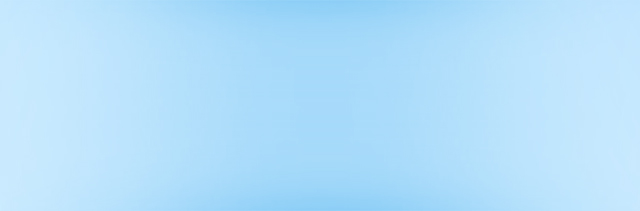
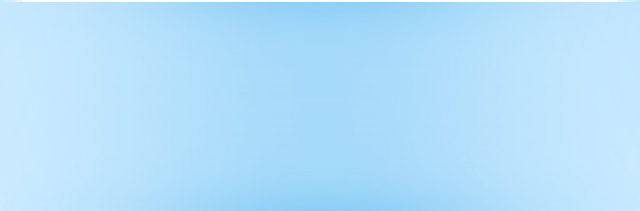
correct arrow area color

Changed region(s): [[0.0312, 0.0, 1.0, 0.0284]]

diff --git a/WordTotalFrequency/Controllers/DashboardController.m b/WordTotalFrequency/Controllers/DashboardController.m
@@ -61,30 +61,35 @@
     set.description = @"Master this word set you can read some short .";
     set.iconUrl = @"Unit-1";
     set.categoryId = 0;
+    set.arrowColor = [UIColor colorWithHex:0xbee3fd];
     [_wordSets addObject:set];
     
     set = [[[WordSet alloc] initWithTotal:9233 marked:235 color:[UIColor colorWithHex:0xff6600]] autorelease];
     set.description = @"Master this word set you can understand basic conversations.";
     set.iconUrl = @"Unit-2";
     set.categoryId = 1;
+    set.arrowColor = [UIColor colorWithHex:0xa1d7f9];
     [_wordSets addObject:set];
     
     set = [[[WordSet alloc] initWithTotal:12457 marked:2348 color:[UIColor colorWithHex:0xff9800]] autorelease];
     set.description = @"Master this word set you can adfasf asdfasdf werwer asfasdf.";
     set.iconUrl = @"Unit-3";
     set.categoryId = 2;
+    set.arrowColor = [UIColor colorWithHex:0x8ecff7];
     [_wordSets addObject:set];
     
     set = [[[WordSet alloc] initWithTotal:23219 marked:1030 color:[UIColor colorWithHex:0xffb900]] autorelease];
     set.description = @"Master this word set you can read some short article.";
     set.iconUrl = @"Unit-4";
     set.categoryId = 3;
+    set.arrowColor = [UIColor colorWithHex:0xa1d7f9];
     [_wordSets addObject:set];
     
     set = [[[WordSet alloc] initWithTotal:49346 marked:0 color:[UIColor colorWithHex:0xffda00]] autorelease];
     set.description = @"Master this word set you can read some short articles and have.";
     set.iconUrl = @"Unit-5";
     set.categoryId = 4;
+    set.arrowColor = [UIColor colorWithHex:0xbee3fd];
     [_wordSets addObject:set];
     
     // retrieve data
@@ -152,6 +157,8 @@
                         _wordSetBrief.frame = CGRectMake(0, 0, 320, WORDSETBRIEF_HEIGHT);
                     }
                     completion:^(BOOL finished) {
+                        if (finished)
+                            _briefView.hidden = YES;
                     }];
 }
 
@@ -164,6 +171,7 @@
                     }
                     completion:^(BOOL finished) {
                     }];
+    _briefView.hidden = NO;
 }
 
 - (NSInteger)selectedIconIndex
@@ -355,6 +363,7 @@
     [_searchBar resignFirstResponder];
     [self dismissSearchResult:YES];
     [self dismissWordSetBrief];
+    self.selectedIconIndex = -1;
 }
 
 #pragma mark - UISearchBarDelegate

diff --git a/WordTotalFrequency/Classes/CAArrowShapeLayer.m b/WordTotalFrequency/Classes/CAArrowShapeLayer.m
@@ -13,6 +13,7 @@
 @implementation CAArrowShapeLayer
 
 @synthesize strokeColor = _strokeColor;
+@synthesize arrowAreaColor = _arrowAreaColor;
 
 - (id)init
 {
@@ -33,21 +34,35 @@
     }
 }
 
+- (void)setArrowAreaColor:(UIColor *)arrowAreaColor
+{
+    if (arrowAreaColor != _arrowAreaColor)
+    {
+        [_arrowAreaColor release];
+        _arrowAreaColor = [arrowAreaColor retain];
+        [self setNeedsDisplay];
+    }
+}
+
 - (void)drawInContext:(CGContextRef)ctx
 {
     CGGradientRef glossGradient;
     CGColorSpaceRef rgbColorspace;
     size_t num_locations = 2;
-    CGFloat locations[2] = { 0.0, 0.18 };
-    CGFloat components[8] = {148.0/255, 185.0/255, 209.0/255, 0.8,  // Start color
-        148.0/255, 185.0/255, 209.0/255, 0}; // End color
+    CGFloat locations[2] = {0.0, 1.0};
+//    NSLog(@"%f, %f, %f", [_arrowAreaColor red], [_arrowAreaColor green], [_arrowAreaColor blue]);
+//    CGFloat components[8] = {148.0/255, 185.0/255, 209.0/255, 0.8,  // Start color
+//        148.0/255, 185.0/255, 209.0/255, 0}; // End color
+    CGFloat components[8] = {[_arrowAreaColor red], [_arrowAreaColor green], [_arrowAreaColor blue], 1,  // Start color
+        [_arrowAreaColor red], [_arrowAreaColor green], [_arrowAreaColor blue], 1}; // End color
+    
 	
     rgbColorspace = CGColorSpaceCreateDeviceRGB();
     glossGradient = CGGradientCreateWithColorComponents(rgbColorspace, components, locations, num_locations);
 	
     CGRect currentBounds = self.bounds;
     CGPoint topCenter = CGPointMake(CGRectGetMidX(currentBounds), 0.0f);
-    CGPoint midCenter = CGPointMake(CGRectGetMidX(currentBounds), CGRectGetMidY(currentBounds));
+    CGPoint midCenter = CGPointMake(CGRectGetMidX(currentBounds), 9.5);
     
 
     CGMutablePathRef path = CGPathCreateMutable();
@@ -79,6 +94,7 @@
 - (void)dealloc
 {
     [_strokeColor release];
+    [_arrowAreaColor release];
     [super dealloc];
 }
 

diff --git a/WordTotalFrequency/Views/WordSetBriefView.m b/WordTotalFrequency/Views/WordSetBriefView.m
@@ -32,7 +32,7 @@
 {
     _backgroundImage.image = [UIImage imageNamed:@"word-set-selected-bg"];
     
-    [self performSelector:@selector(navigateToWordSetController) withObject:nil afterDelay:.15];
+    [self performSelector:@selector(navigateToWordSetController) withObject:nil afterDelay:.05];
 }
 
 - (id)initWithFrame:(CGRect)frame
@@ -50,7 +50,7 @@
         [self.layer addSublayer:_arrowLayer];
         
         _backgroundImage = [[UIImageView alloc] initWithImage:[UIImage imageNamed:@"word-set-bg"]];
-        _backgroundImage.frame = CGRectMake(0, 8.5, frame.size.width, 106);
+        _backgroundImage.frame = CGRectMake(0, 9, frame.size.width, 106);
         [self addSubview:_backgroundImage];
         
         _countlabel = [[UILabel alloc] initWithFrame:CGRectZero];
@@ -143,6 +143,7 @@
 - (void)updateDisplay
 {
     _arrowLayer.strokeColor = _wordSet.color;
+    _arrowLayer.arrowAreaColor = _wordSet.arrowColor;
     _countlabel.text = [NSString stringWithFormat:@"%d", _wordSet.markedWordCount];
     _countlabel.textColor = _wordSet.color;
     [_percentLabel setText:[NSString stringWithFormat:@"%d%%", _wordSet.completePercentage]];

diff --git a/WordTotalFrequency/Extentions/UIColor+WTF.m b/WordTotalFrequency/Extentions/UIColor+WTF.m
@@ -30,4 +30,35 @@
     return [UIColor colorWithHex:0x45738e];
 }
 
+- (CGColorSpaceModel) colorSpaceModel  
+{  
+    return CGColorSpaceGetModel(CGColorGetColorSpace(self.CGColor));  
+}
+
+- (CGFloat) red  
+{  
+    const CGFloat *c = CGColorGetComponents(self.CGColor);  
+    return c[0];  
+}  
+
+- (CGFloat) green  
+{  
+    const CGFloat *c = CGColorGetComponents(self.CGColor);
+    if ([self colorSpaceModel] == kCGColorSpaceModelMonochrome) return c[0];  
+    return c[1];  
+}  
+
+- (CGFloat) blue  
+{  
+    const CGFloat *c = CGColorGetComponents(self.CGColor);  
+    if ([self colorSpaceModel] == kCGColorSpaceModelMonochrome) return c[0];  
+    return c[2];  
+}  
+
+- (CGFloat) alpha  
+{  
+    const CGFloat *c = CGColorGetComponents(self.CGColor);  
+    return c[CGColorGetNumberOfComponents(self.CGColor)-1];  
+}  
+
 @end

diff --git a/WordTotalFrequency/Models/WordSet.m b/WordTotalFrequency/Models/WordSet.m
@@ -15,6 +15,7 @@
 @synthesize markedWordCount = _markedWordCount;
 @synthesize description = _description;
 @synthesize color = _color;
+@synthesize arrowColor = _arrowColor;
 @synthesize completePercentage = _completePercentage;
 @synthesize iconUrl = _iconUrl;
 @synthesize categoryId = _categoryId;
@@ -34,6 +35,7 @@
 {
     [_description release];
     [_color release];
+    [_arrowColor release];
     [super dealloc];
 }
 

diff --git a/WordTotalFrequency/Models/WordSet.h b/WordTotalFrequency/Models/WordSet.h
@@ -17,6 +17,7 @@
 @property (nonatomic) NSInteger markedWordCount;
 @property (nonatomic, copy) NSString *description;
 @property (nonatomic, retain) UIColor *color;
+@property (nonatomic, retain) UIColor *arrowColor;
 @property (nonatomic, readonly) NSInteger completePercentage;
 @property (nonatomic, copy) NSString *iconUrl;
 @property (nonatomic) NSInteger categoryId;

diff --git a/WordTotalFrequency/Extentions/UIColor+WTF.h b/WordTotalFrequency/Extentions/UIColor+WTF.h
@@ -17,4 +17,12 @@
 
 + (UIColor *)colorForNormalText;
 
++ (UIColor *)colorForNormalText;
+- (CGColorSpaceModel) colorSpaceModel;
+
+- (CGFloat) red;
+- (CGFloat) green;
+- (CGFloat) blue;
+- (CGFloat) alpha;
+
 @end

diff --git a/WordTotalFrequency/Classes/CAArrowShapeLayer.h b/WordTotalFrequency/Classes/CAArrowShapeLayer.h
@@ -14,5 +14,6 @@
 }
 
 @property (nonatomic, retain) UIColor *strokeColor;
+@property (nonatomic, retain) UIColor *arrowAreaColor;
 
 @end
